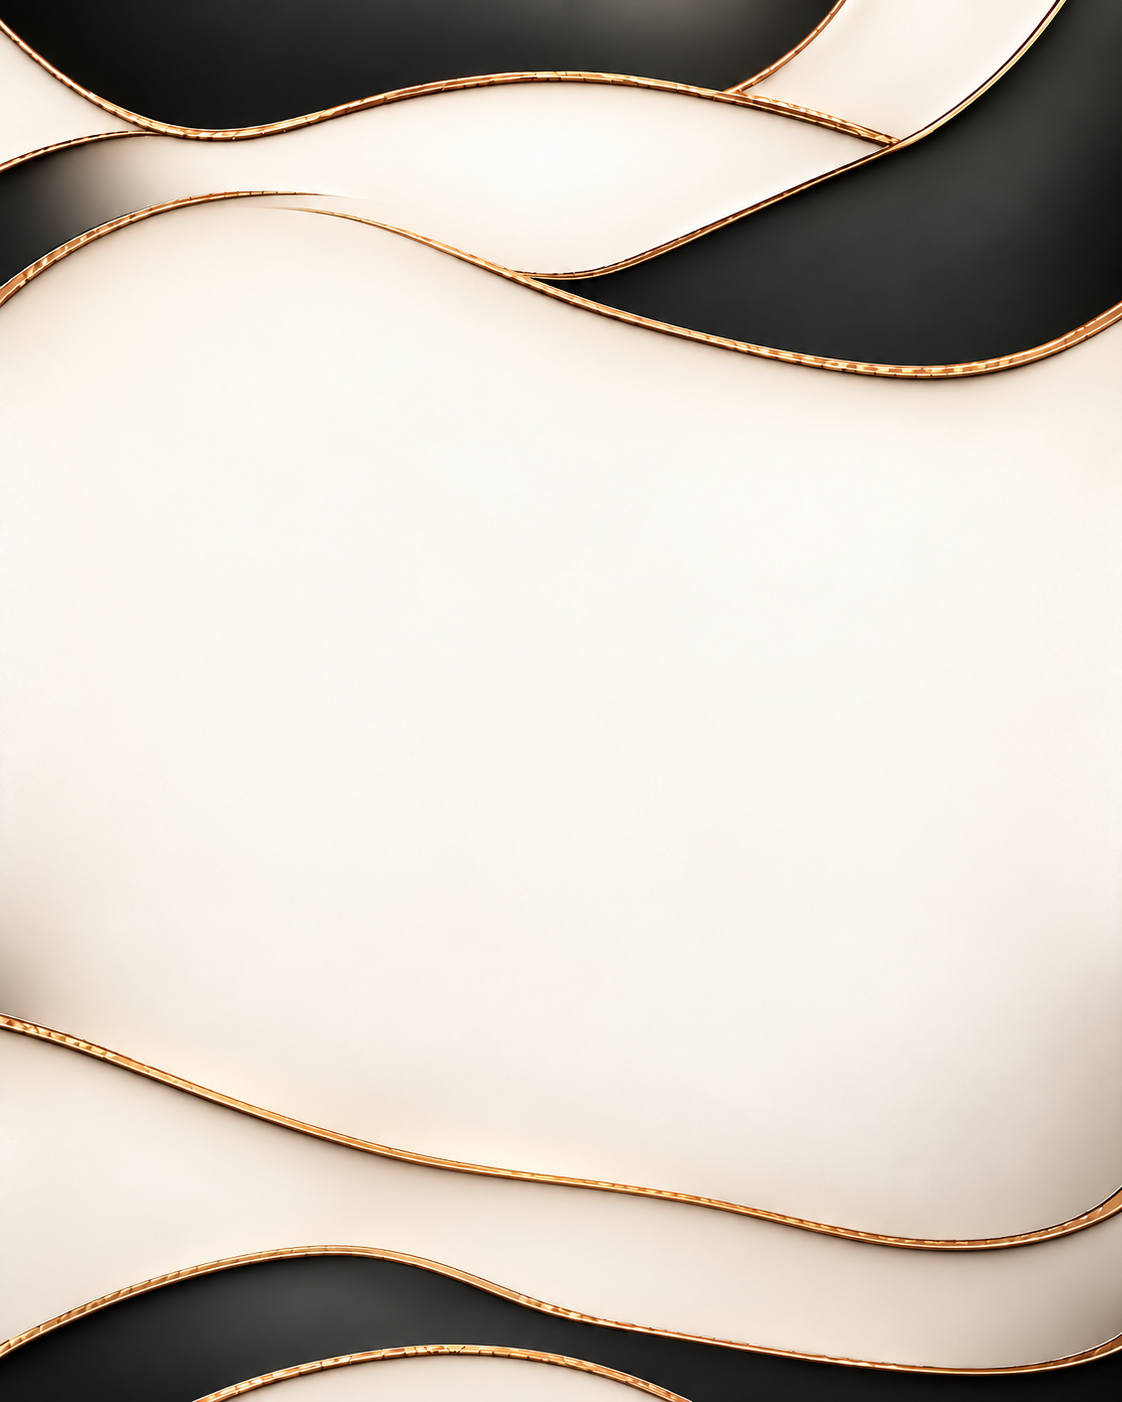
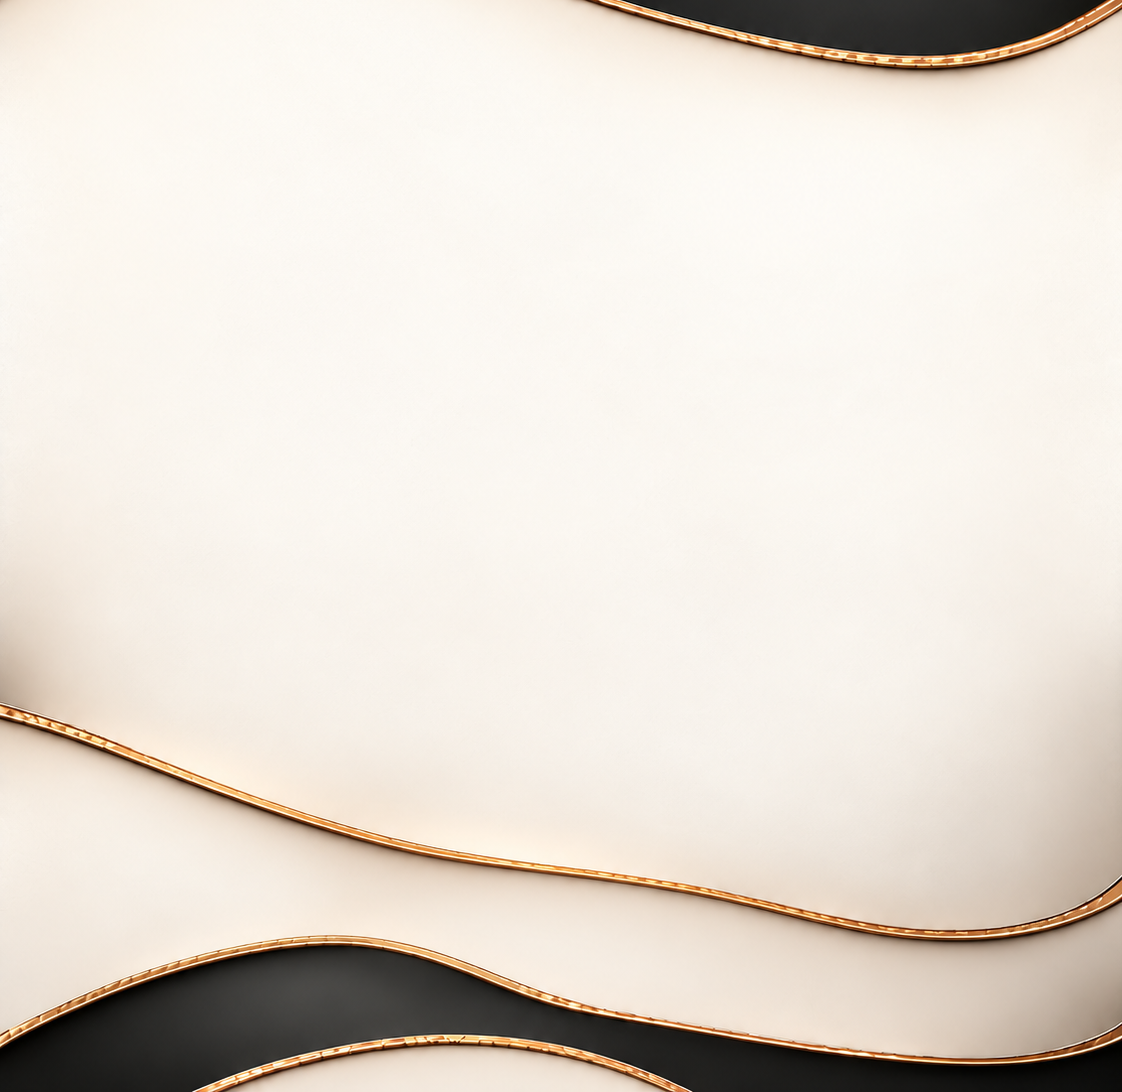
Position background image so calligraphy quote sits on clean white background

Changed region(s): [[0.0, 0.0, 1.0, 0.3114], [0.0, 0.5293, 1.0, 1.0], [0.9358, 0.5916, 1.0, 0.7161]]

diff --git a/src/components/HeroSection.tsx b/src/components/HeroSection.tsx
@@ -20,13 +20,13 @@ export default function HeroSection({ currentLang: propLang }: HeroSectionProps)
       dir={isAr ? "rtl" : "ltr"}
     >
       <div className="max-w-[1240px] mx-auto">
-        {/* Upper Script Calligraphy Quote - White on phone view, Black on desktop over heroimage */}
+        {/* Upper Script Calligraphy Quote - Crisp Deep Luxury Black on Clean White Canvas */}
         <div className="text-center mb-8 sm:mb-10 select-none">
-          <p className="font-script text-3xl sm:text-4xl lg:text-[46px] text-white md:text-[#121110] tracking-wide leading-tight drop-shadow-[0_2px_6px_rgba(0,0,0,0.85)] md:drop-shadow-[0_1px_1px_rgba(255,255,255,0.9)]">
+          <p className="font-script text-3xl sm:text-4xl lg:text-[46px] text-[#121110] tracking-wide leading-tight">
             {isAr ? "حضورك هو أثمن هدية" : "The Gift Of Presence is"}
           </p>
           <div className="inline-block relative">
-            <p className="font-script text-3xl sm:text-4xl lg:text-[46px] text-white md:text-[#121110] tracking-wide leading-tight mt-0.5 drop-shadow-[0_2px_6px_rgba(0,0,0,0.85)] md:drop-shadow-[0_1px_1px_rgba(255,255,255,0.9)]">
+            <p className="font-script text-3xl sm:text-4xl lg:text-[46px] text-[#121110] tracking-wide leading-tight mt-0.5">
               {isAr ? "أجمل ما يمكن تقديمه" : "The Best Present"}
             </p>
             {/* Delicate Gold Underline */}
